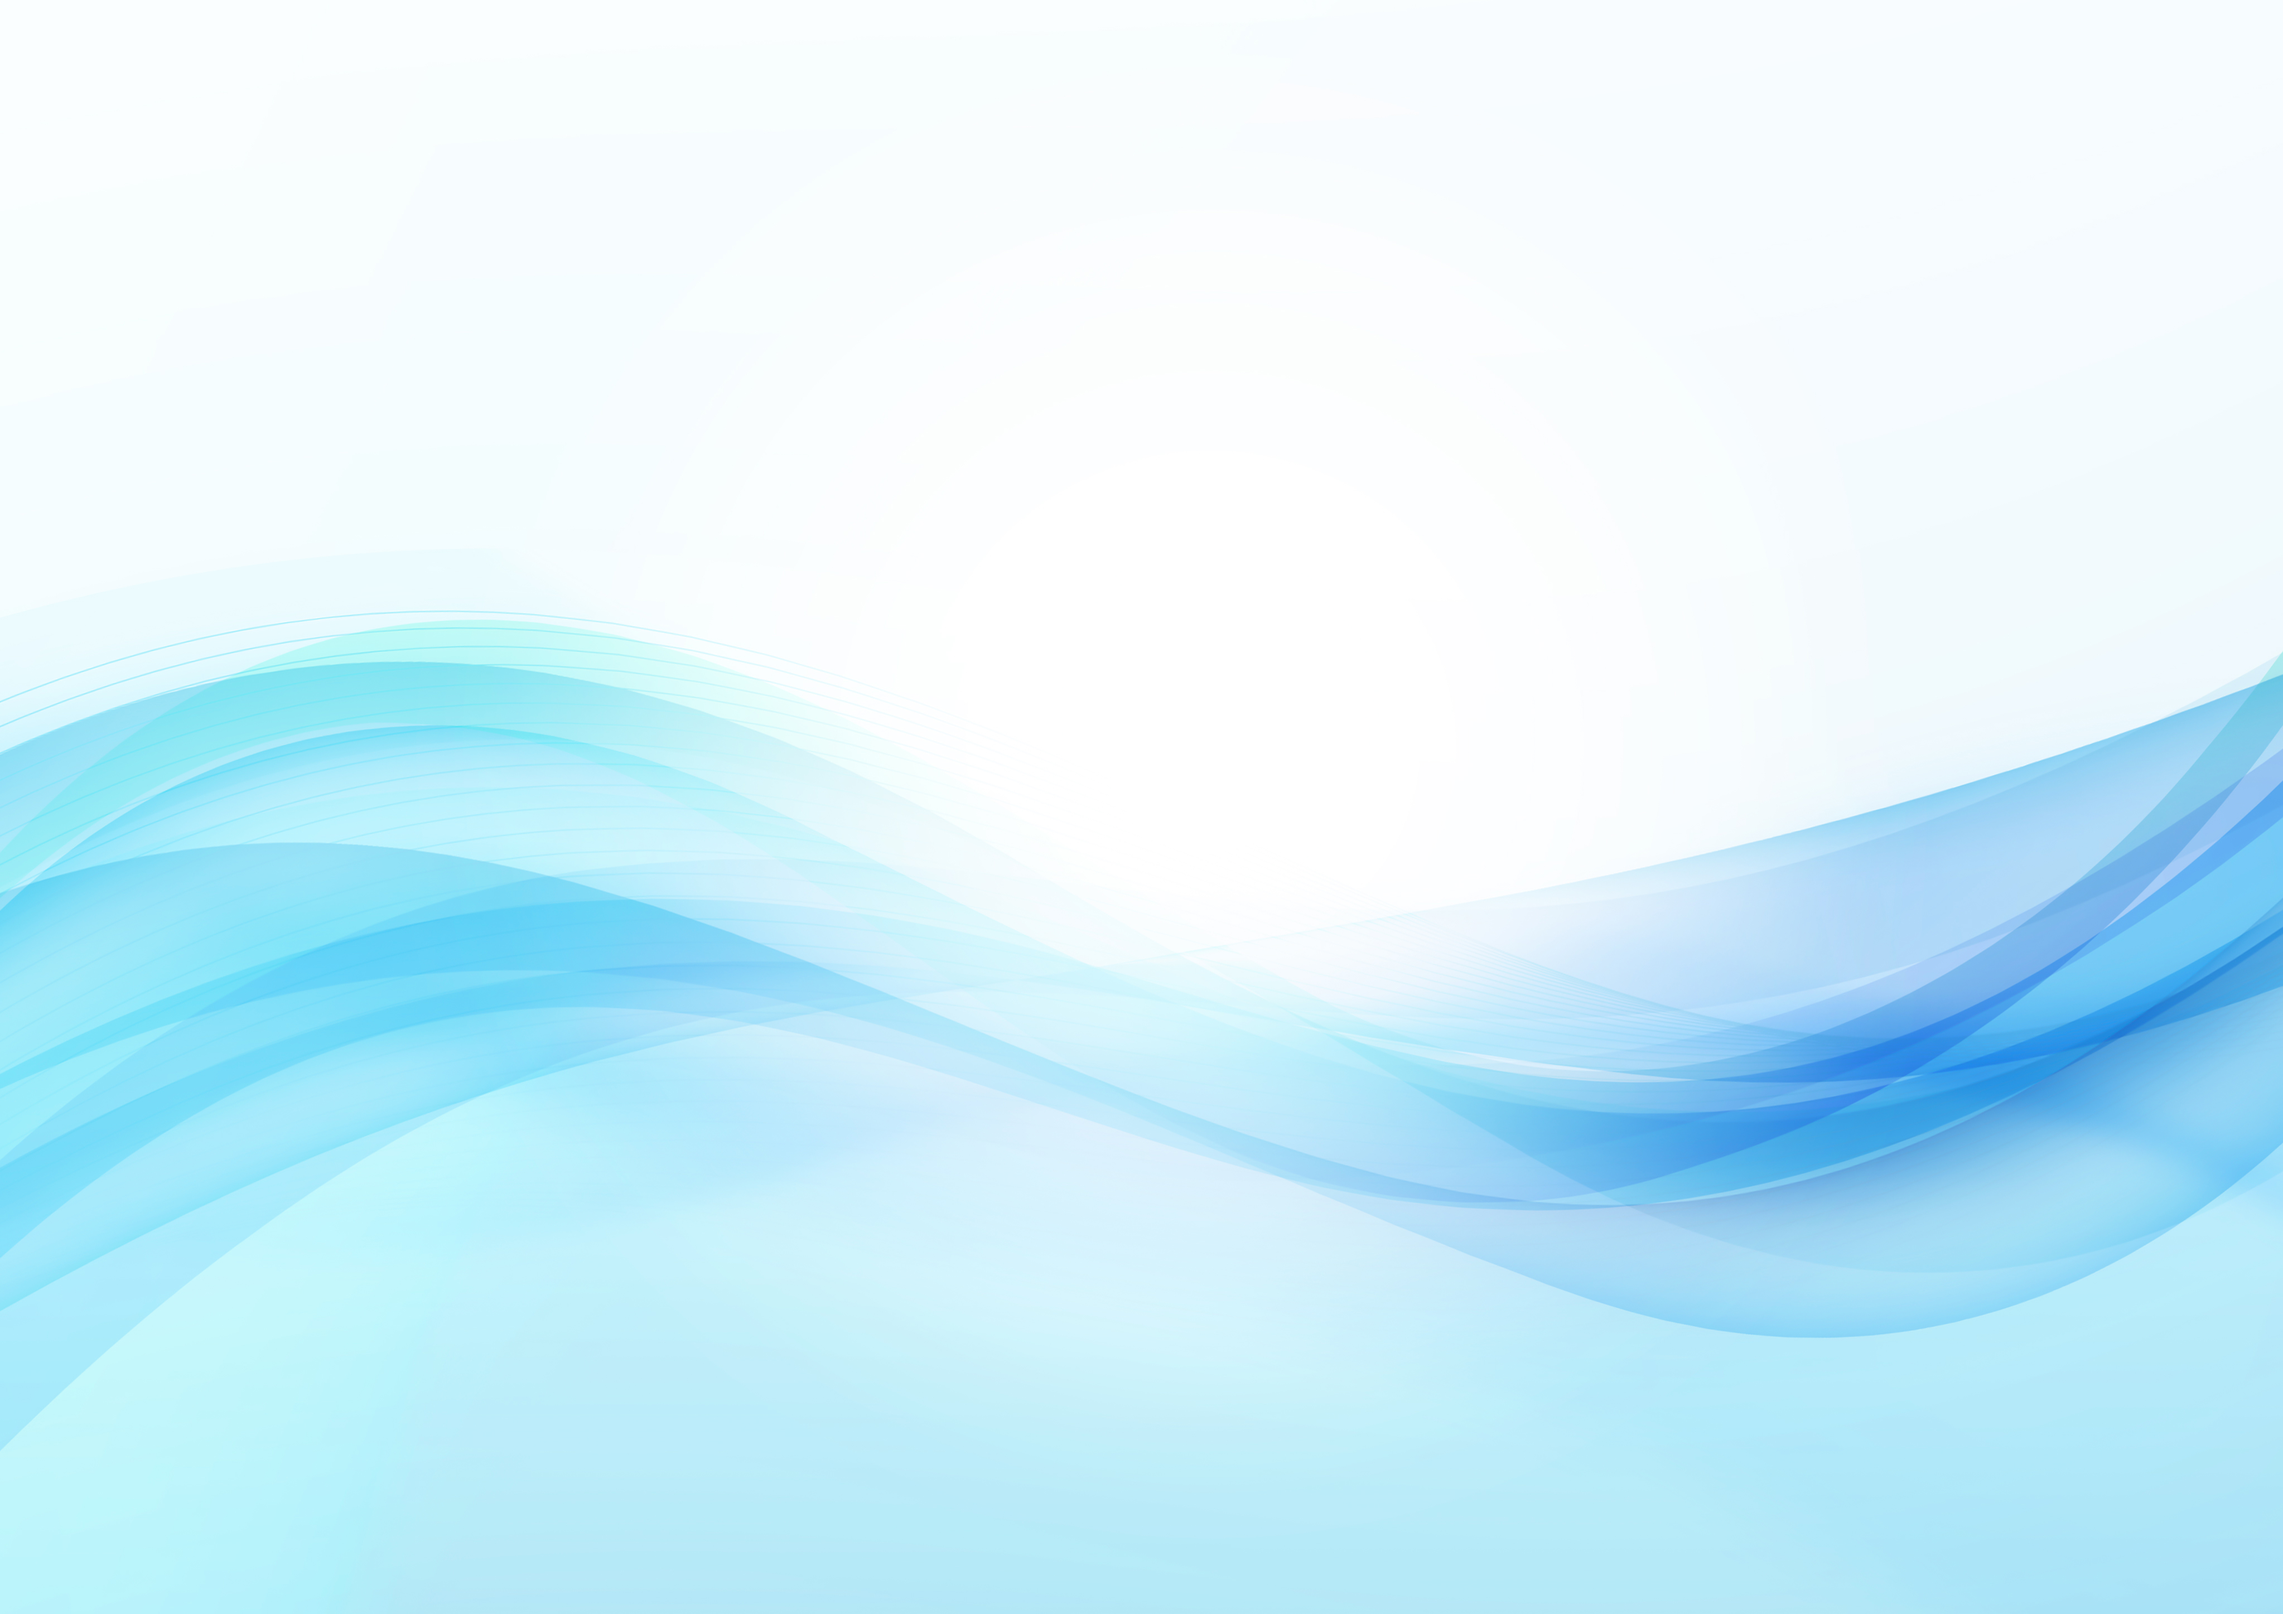
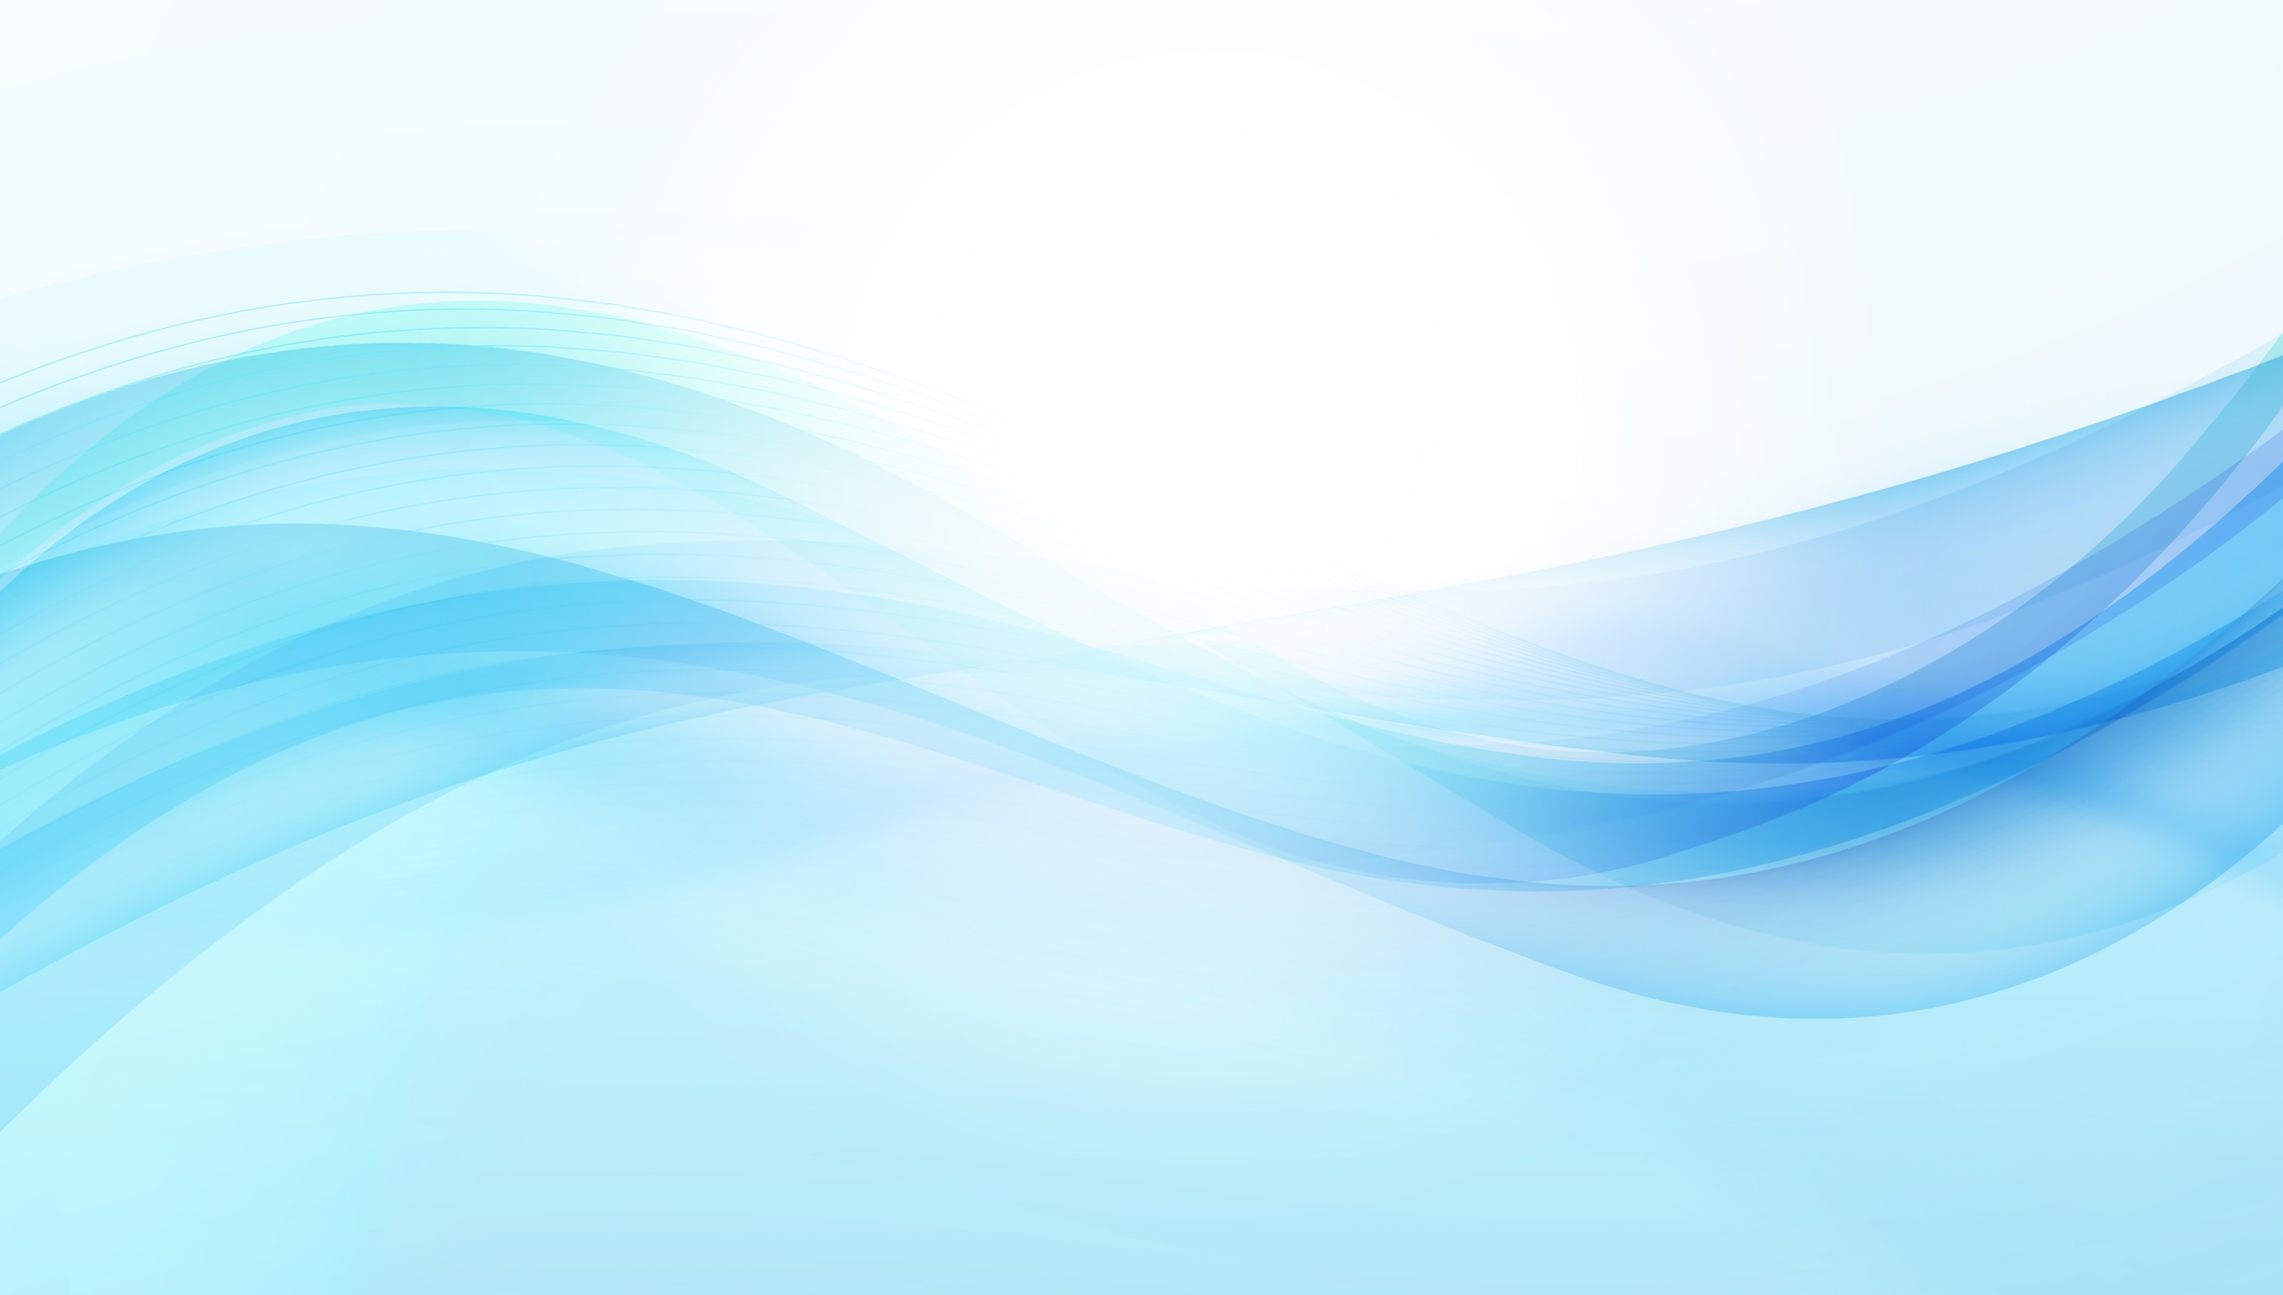
HTML変更

Changed region(s): [[0.0, 0.2171, 1.0, 0.8992], [0.0, 0.5271, 0.0621, 0.5891], [0.4344, 0.6512, 0.4965, 0.6822]]

diff --git a/contact.html b/contact.html
@@ -49,8 +49,8 @@
     <h2 class="main-title" data-aos="zoom-in" data-aos-duration="1000">CONTACT</h2>
     <p data-aos="fade-in" data-aos-duration="2500" data-aos-delay="500">ご覧いただき誠にありがとうございました。</p>
     <p data-aos="fade-in" data-aos-duration="2500" data-aos-delay="600">ご意見、ご相談等ございましたら<br>お気軽にお問合せください。</p>
-    <p data-aos="fade-in" data-aos-duration="2500" data-aos-delay="650">あなたのひとことが、<br>次の作品へのきっかけになるかもしれません。</p>
-    <p data-aos="fade-in" data-aos-duration="2500" data-aos-delay="700">ささやかなご縁が、<br>心に残る波紋となりますように。</p>
+    <p data-aos="fade-in" data-aos-duration="2500" data-aos-delay="650">あなたのひとことが<br>次の作品へのきっかけになるかもしれません。</p>
+    <p data-aos="fade-in" data-aos-duration="2500" data-aos-delay="700">ささやかなご縁が<br>心に残る波紋となりますように。</p>
   </div>
 </section>
 
@@ -105,11 +105,8 @@
     </ul>
   </div>
 </div>
+<p class="reserved">© 2025 Hiroyuki Nakano All rights reserved.</p>
 </div>
-<footer data-aos="fade-in" data-aos-duration="1500" data-aos-delay="300">
-  <p>© 2025 Hiroyuki Nakano.<br> All rights reserved.</p>
-  <p>A futuer society that technology will create</p>
-</footer>
 </main>
   <!-- barbaのJS -->
   <script src="https://unpkg.com/@barba/core"></script>    

diff --git a/learning.html b/learning.html
@@ -97,8 +97,8 @@
   </div>  
     <div class="learning-bg2" data-aos="fade-in" data-aos-duration="2000" data-aos-delay="400">
       <div class="learning-bg-title2">
-        <h3 style="color:rgb(251, 240, 211);" data-aos="fade-up">SERVICES REFERENCED</h3>
-        <h3 style="color:rgb(251, 240, 211);" data-aos="fade-up">参考にさせていただいた記事</h3>
+        <h3 style="color:rgb(75, 43, 2);" data-aos="fade-up">SERVICES REFERENCED</h3>
+        <h3 style="color:rgb(75, 43, 2);" data-aos="fade-up">参考にさせていただいた記事</h3>
       </div>
         <h4 class="card-section-title" data-aos="fade-up">Python,HTML,CSS,Javascript,SQL</h4>
         <ul class="border-list-second" data-aos="fade-up">
@@ -180,11 +180,8 @@
     </ul>
   </div>
   </div>
+  <p class="reserved">© 2025 Hiroyuki Nakano All rights reserved.</p>
   </div>   
-    <footer data-aos="fade-in" data-aos-duration="1500" data-aos-delay="200">
-       <p>© 2025 Hiroyuki Nakano.<br> All rights reserved.</p>
-       <p>A futuer society that technology will create</p>
-    </footer>
   </main>
   <!-- barbaのJS -->
   <script src="https://unpkg.com/@barba/core"></script>    

diff --git a/design.html b/design.html
@@ -135,7 +135,7 @@
         クリエイティブな視点と実用性が融合したデザイン。<br>細かいディテールで仕上げることで<br>高い視認性と集客効果を実現しています。
       </h4>
     </div>
-    <h4 class="last-text" data-aos="fade-in" data-aos-duration="1000" data-aos-delay="100">Crafted with care, shared with pride. </h4>
+    <h4 class="last-text" data-aos="fade-in" data-aos-duration="1000" data-aos-delay="100">A futuer society that technology will create.</h4>
 </div>
 </section>
 
@@ -178,11 +178,8 @@
     </ul>
   </div>
   </div>
+    <p class="reserved">© 2025 Hiroyuki Nakano All rights reserved.</p>
   </div>       
-<footer data-aos="fade-in" data-aos-duration="1500" data-aos-delay="200">
-  <p>© 2025 Hiroyuki Nakano.<br>All rights reserved.</p>
-  <p>A futuer society that technology will create</p>
-</footer> 
 </main>
   <!-- barbaのJS -->
   <script src="https://unpkg.com/@barba/core"></script>    

diff --git a/index.html b/index.html
@@ -21,7 +21,7 @@
   <header>
     <p id="time">現在の時刻が表示されます。</p>
     <div id="slideshow">
-      <img src="サイバー.jpg" alt="サイバー画像">
+      <img src="テクノロジー5.jpg" alt="テクノロジー画像">
       <img src="PC7.jpg" alt="PC画像">
       <img src="社会1.jpg" alt="社会画像">
       <img src="モダン.jpg" alt="モダン画像">
@@ -31,6 +31,7 @@
       <img src="テクノロジー1.jpg" alt="テクノロジー画像">
       <img src="オフィス5.jpg" alt="オフィス画像">
       <img src="PC10.jpg" alt="PC画像">
+      <img src="サイバー.jpg" alt="サイバー画像">
       <img src="コーディング.jpg" alt="コーディング画像">
       <img src="デザインカラフル.jpg" alt="デザインカラフル画像">
       <img src="アンドロイド.jpg" alt="アンドロイド画像">

diff --git a/website.html b/website.html
@@ -147,12 +147,9 @@
     </ul>
   </div>
   </div>
-  </div>   
-      <footer data-aos="fade-in" data-aos-duration="1500" data-aos-delay="200">
-        <p>© 2025 Hiroyuki Nakano.<br> All rights reserved.</p>
-        <p>A futuer society that technology will create</p>
-      </footer>
-    </div>
+  <p class="reserved">© 2025 Hiroyuki Nakano All rights reserved.</p>
+  </div>  
+  </div>
   </main>
   <!-- barbaのJS -->
   <script src="https://unpkg.com/@barba/core"></script>    

diff --git a/profile.html b/profile.html
@@ -125,11 +125,8 @@
     </ul>
   </div>
   </div>
+  <p class="reserved">© 2025 Hiroyuki Nakano All rights reserved.</p>
   </div>       
-<footer data-aos="fade-in" data-aos-duration="1500" data-aos-delay="200">
-  <p>© 2025 Hiroyuki Nakano. <br>All rights reserved.</p>
-  <p>A futuer society that technology will create</p>
-</footer>
 </main>
   <!-- barbaのJS -->
   <script src="https://unpkg.com/@barba/core"></script>    

diff --git a/app.html b/app.html
@@ -202,11 +202,8 @@
     </ul>
   </div>
   </div>
+  <p class="reserved">© 2025 Hiroyuki Nakano All rights reserved.</p>
   </div>   
-  <footer data-aos="fade-in" data-aos-duration="1500" data-aos-delay="400">
-    <p>© 2025 Hiroyuki Nakano. <br>All rights reserved.</p>
-    <p>A futuer society that technology will create</p>
-  </footer>
 </div>
 </main>
   <!-- barbaのJS -->
